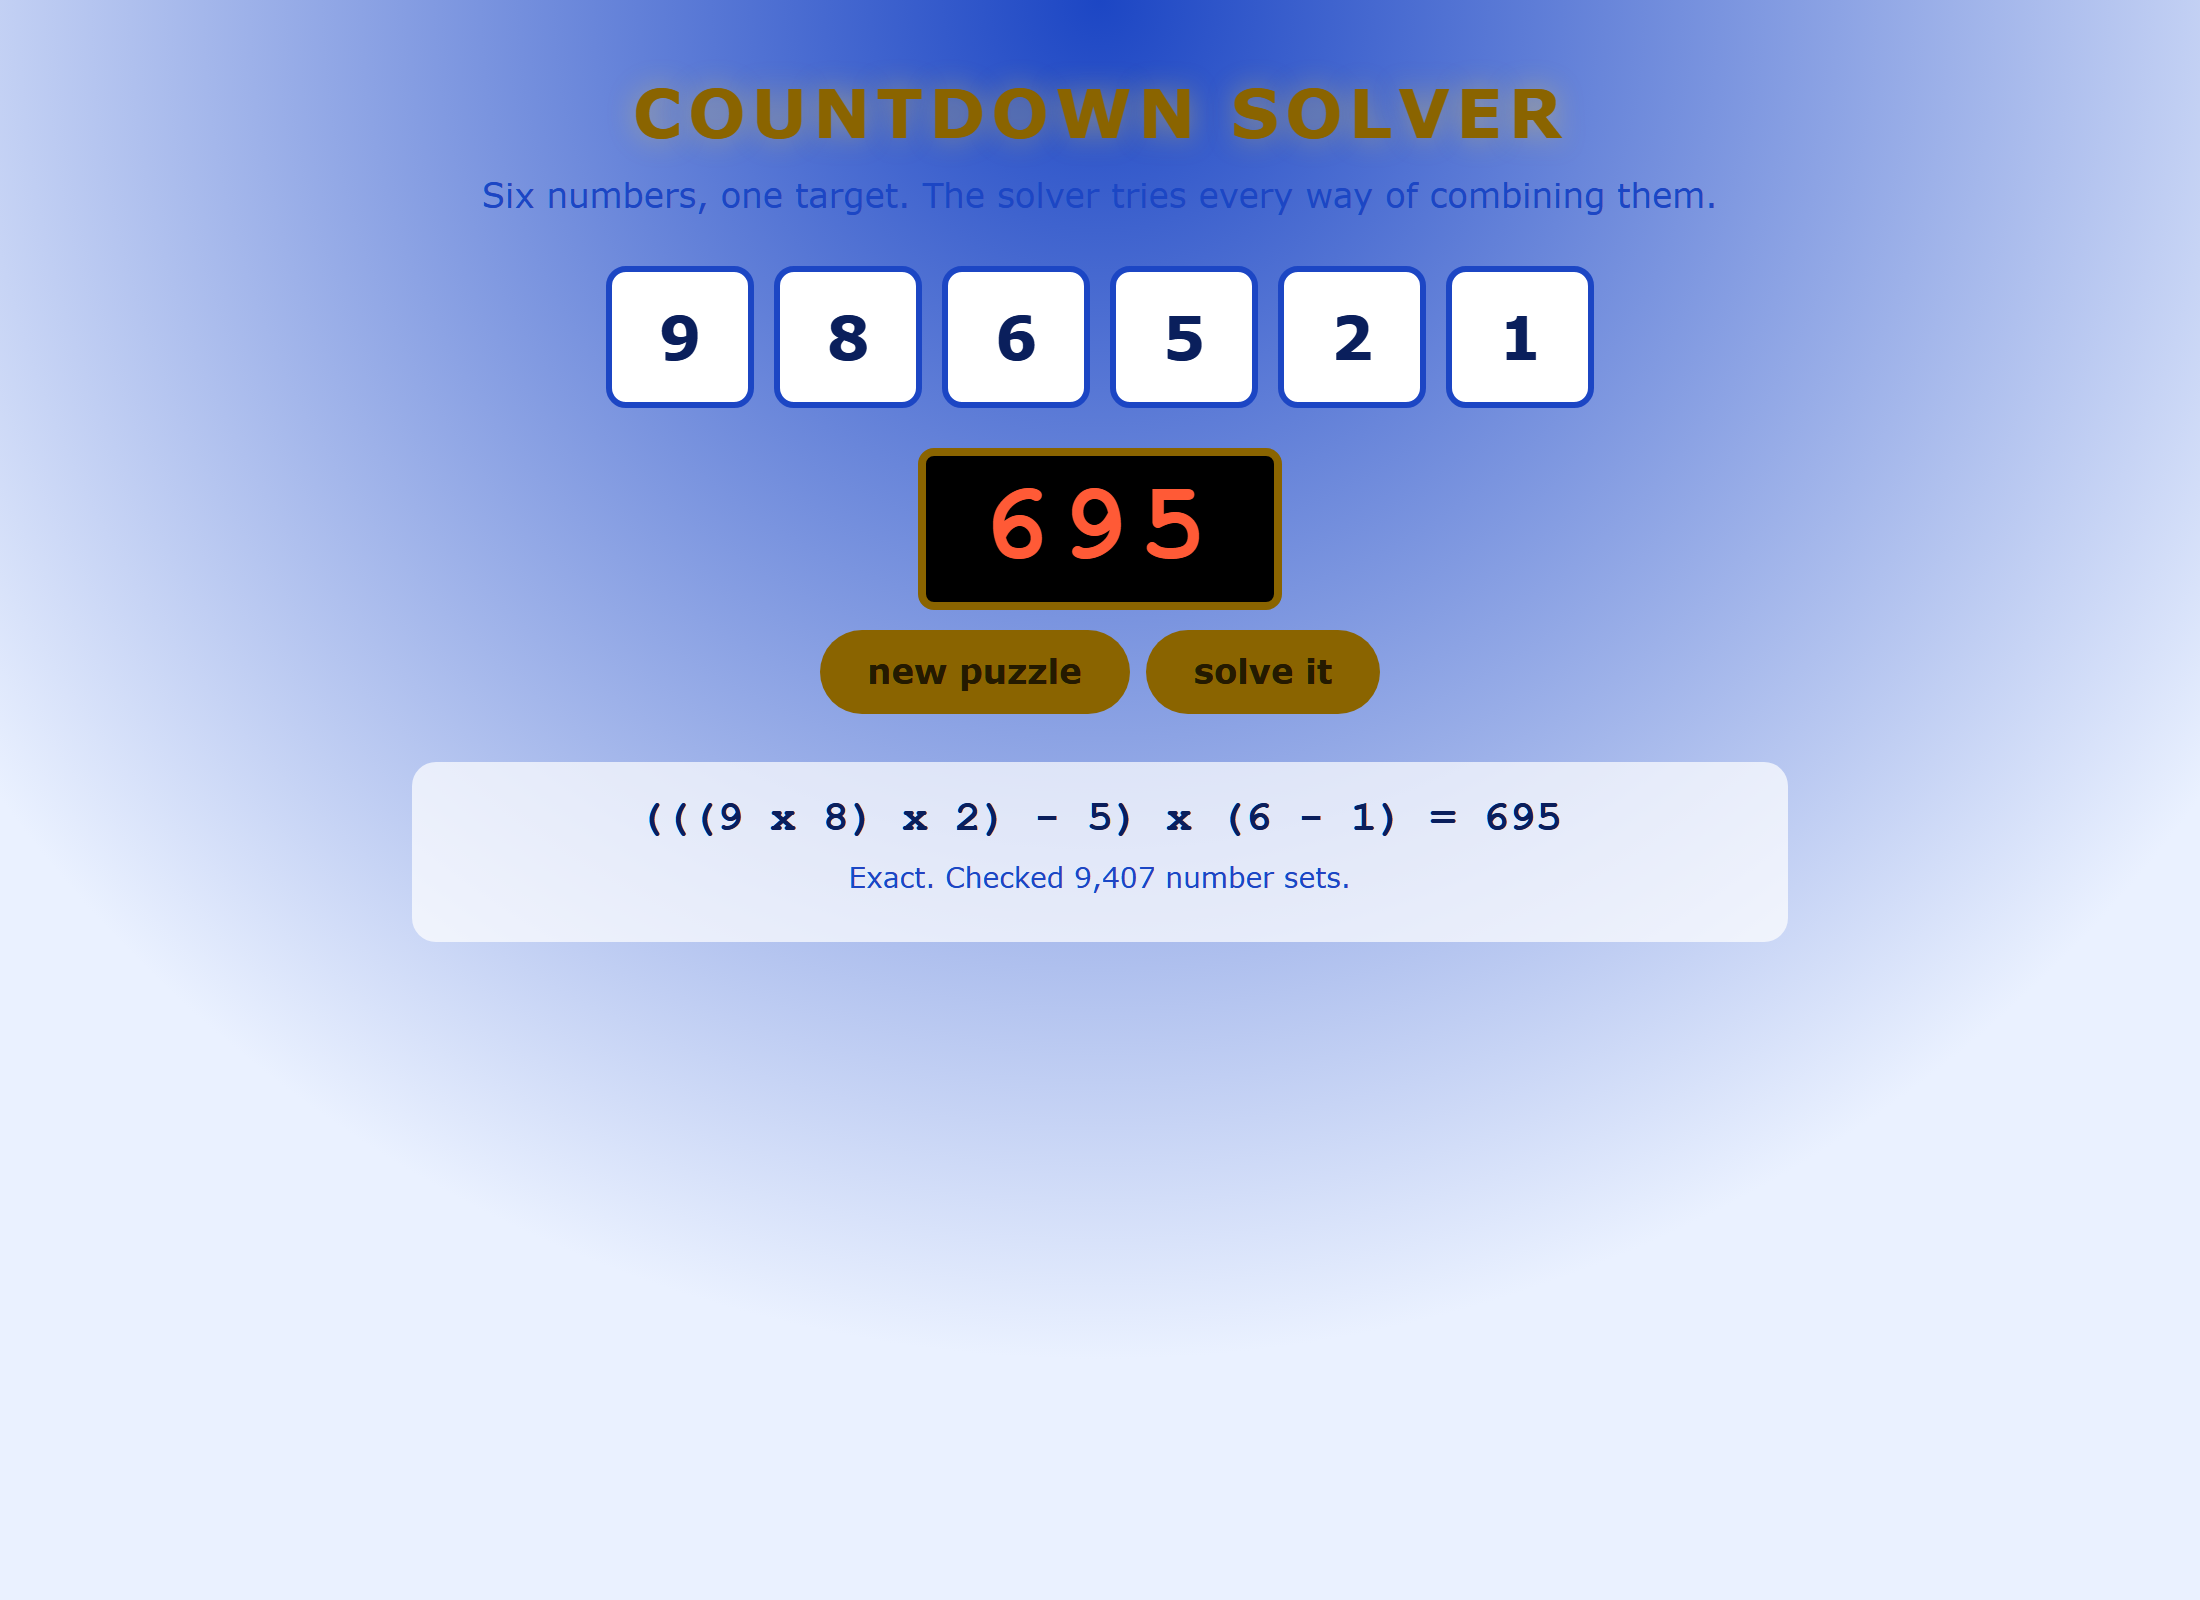
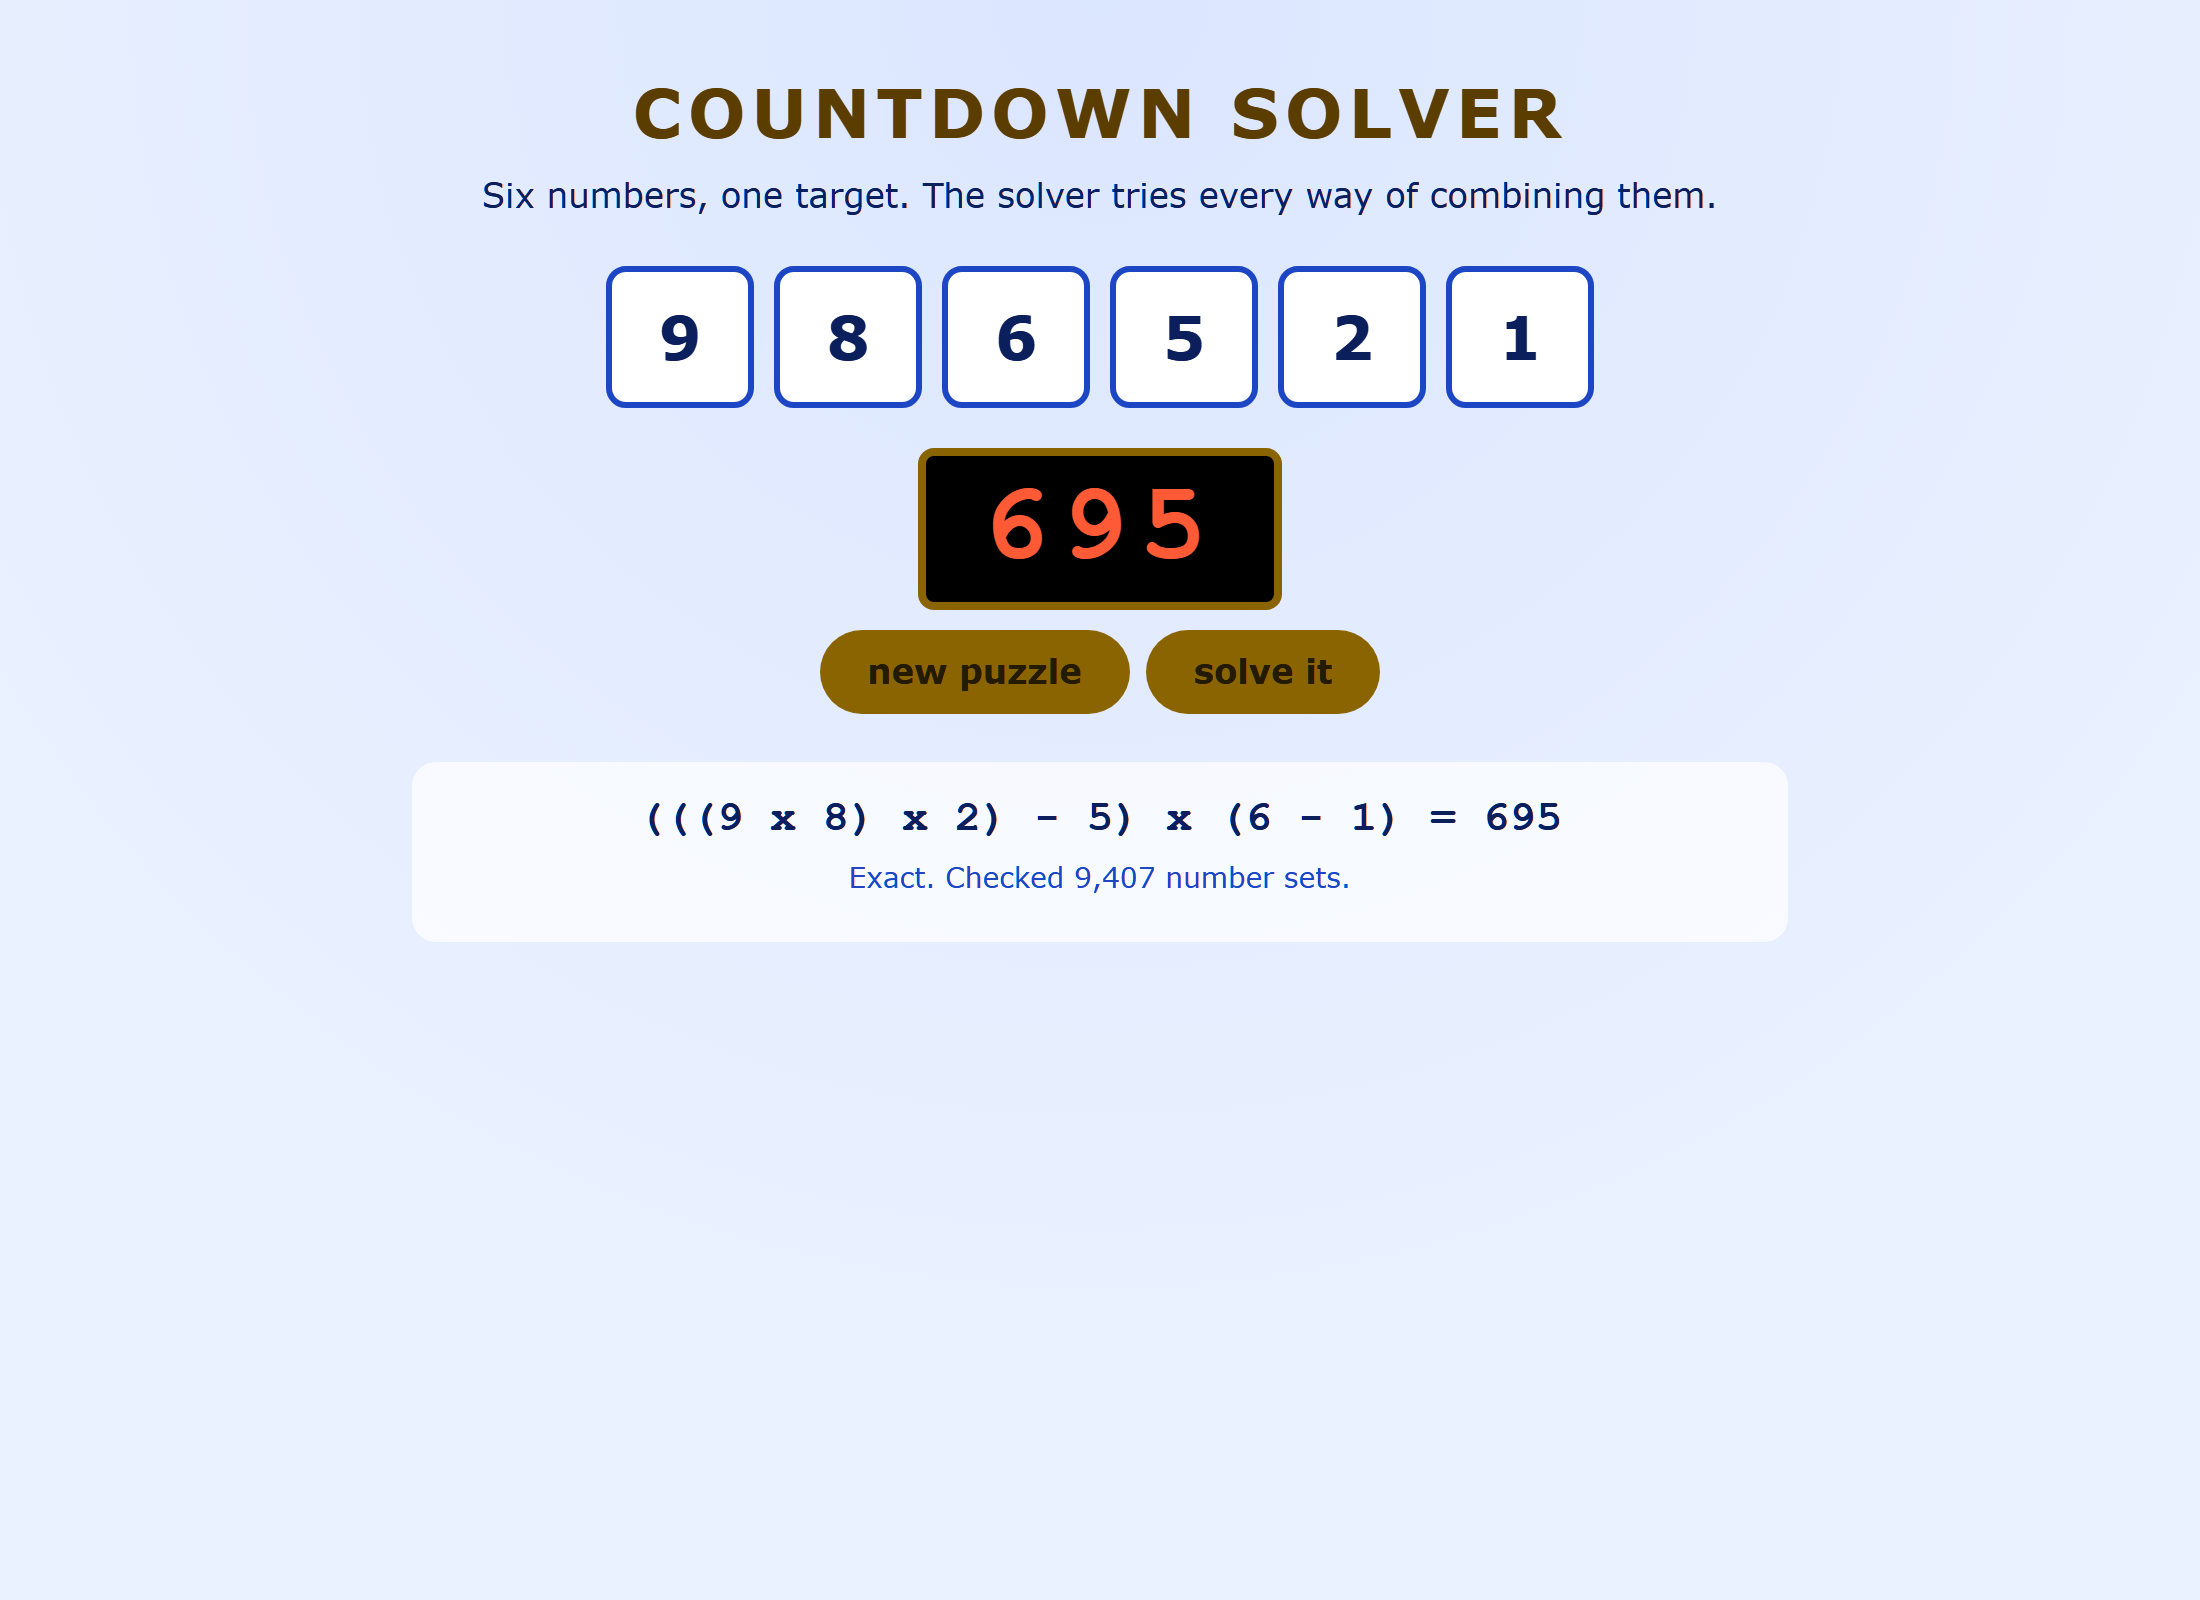
Fix light contrast: countdown-solver

diff --git a/static/index.html b/static/index.html
@@ -8,7 +8,7 @@ main{max-width:720px;margin:0 auto;padding:30px 16px}h1{margin:0;color:var(--gol
 .target{display:inline-block;margin:20px 0 6px;background:#000;border:4px solid var(--gold);border-radius:8px;padding:6px 28px;font:900 56px/1.1 "Courier New",monospace;color:#ff5a36;letter-spacing:6px}
 button{font:inherit;background:var(--gold);color:#241a00;border:0;border-radius:24px;padding:8px 24px;cursor:pointer;font-weight:900;margin:4px}
 .answer{margin-top:20px;background:#0006;border-radius:12px;padding:16px;min-height:90px}.expr{font:700 22px "Courier New",monospace;color:#fff;word-break:break-word}.meta{color:var(--glow);font-size:14px;margin-top:6px}
-@media (prefers-color-scheme: light){:root{--bg:#eaf1ff;--ink:#0a1f5c;--tile:#ffffff;--gold:#8a6400;--glow:#1c46c4}.tile{color:#0a1f5c}.expr{color:#0a1f5c}.answer{background:#ffffffb3}}
+@media (prefers-color-scheme: light){:root{--bg:#eaf1ff;--ink:#0a1f5c;--tile:#ffffff;--gold:#8a6400;--glow:#1c46c4}body{background:radial-gradient(circle at 50% 0,#dbe6ff,var(--bg) 70%)}h1{color:#5c3d00;text-shadow:none}.sub{color:#0b1f5c}.tile{color:#0a1f5c}.expr{color:#0a1f5c}.answer{background:#ffffffb3}}
 </style></head><body><main>
 <h1>Countdown solver</h1><p class="sub">Six numbers, one target. The solver tries every way of combining them.</p>
 <div class="tiles" id="t"></div><div class="target" id="g">---</div><div><button id="n">new puzzle</button><button id="s">solve it</button></div>
